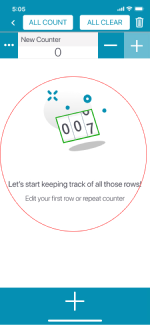
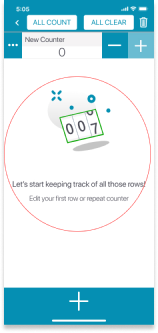
Fix on edit counter image

diff --git a/projects/stringz.html b/projects/stringz.html
@@ -850,18 +850,18 @@
             <ol>
               <li class="comparison">
                 <div class="image-container">
-                  <img src="../img/projects/stringz/usability-testing/add-photo-screen-hifi-v1.png"
-                    alt="Add Photo Screen - Iteration 1"
-                    srcset="../img/projects/stringz/usability-testing/add-photo-screen-hifi-v1.png 1x, ../img/projects/stringz/usability-testing/add-photo-screen-hifi-v1@2x.png 2x" />
-                  <p class="project-text image-description">Iteration v.1</p>
+                  <img src="../img/projects/stringz/usability-testing/edit-counter-v3.png"
+                    alt="Edit Counter Screen - Iteration 3"
+                    srcset="../img/projects/stringz/usability-testing/edit-counter-v3.png 1x, ../img/projects/stringz/usability-testing/edit-counter-v3@2x.png 2x" />
+                  <p class="project-text image-description">Iteration v.3</p>
                 </div>
               </li>
               <li class="comparison">
                 <div class="image-container">
-                  <img src="../img/projects/stringz/usability-testing/add-photo-screen-hifi-v2.png"
-                    alt="Add Photo Screen - Iteration 2"
-                    srcset="../img/projects/stringz/usability-testing/add-photo-screen-hifi-v2.png 1x, ../img/projects/stringz/usability-testing/add-photo-screen-hifi-v2@2x.png 2x" />
-                  <p class="project-text image-description">Iteration v.2</p>
+                  <img src="../img/projects/stringz/usability-testing/edit-counter-v4.png"
+                    alt="Edit Counter Screen - Iteration 4"
+                    srcset="../img/projects/stringz/usability-testing/edit-counter-v4.png 1x, ../img/projects/stringz/usability-testing/edit-counter-v4@2x.png 2x" />
+                  <p class="project-text image-description">Iteration v.4</p>
                 </div>
               </li>
             </ol>
